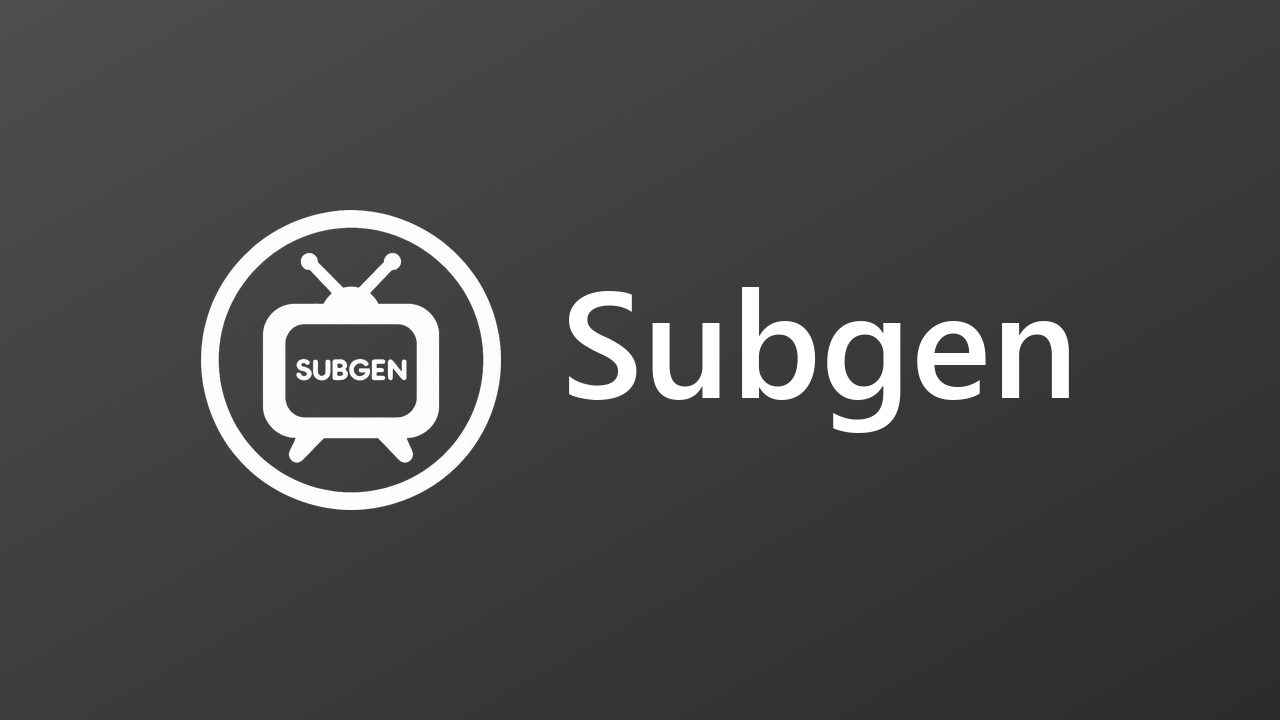
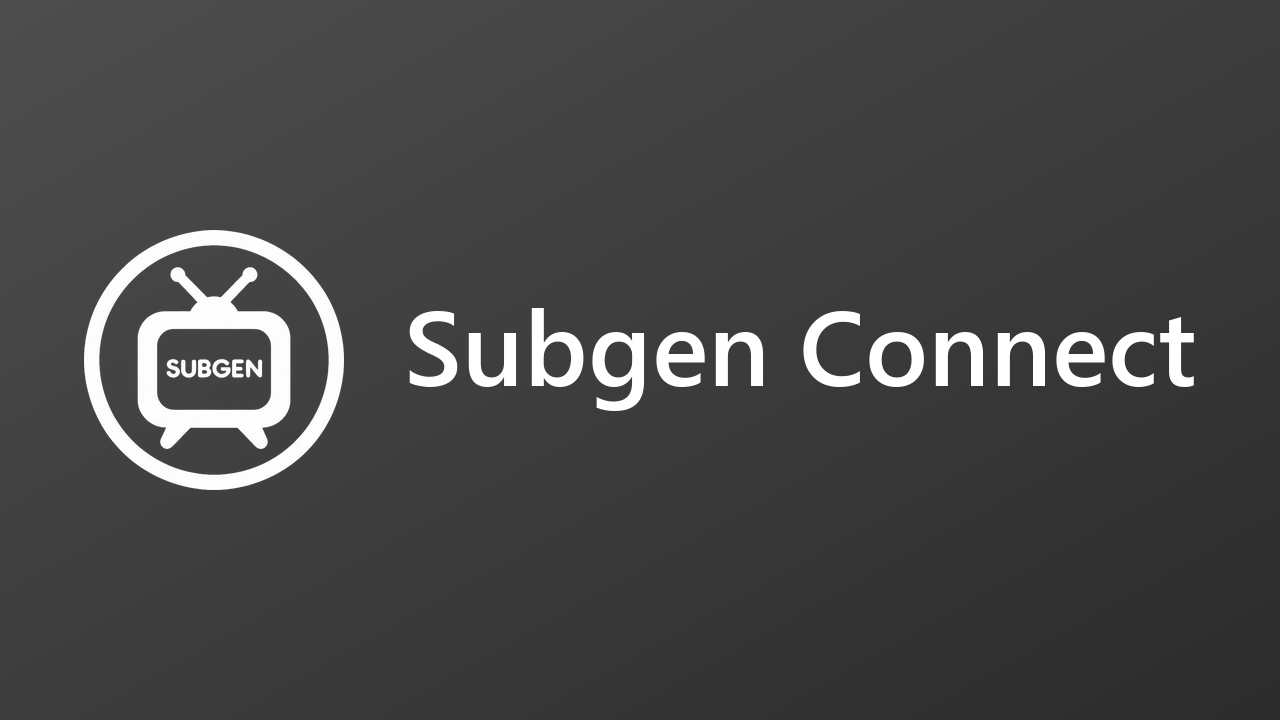
Rename to Subgen Connect (jellyfin-plugin-subgen-connect)
The old name sounded like Subgen is bundled. The plugin only connects
Jellyfin to a Subgen server that the user runs. Renames the plugin and
subtitle provider in Jellyfin, the banner, catalog name and URLs, the
release zip name and the README. Plugin GUID stays the same, so existing
installs update in place.

Changed region(s): [[0.0625, 0.275, 0.9375, 0.7333]]

diff --git a/Jellyfin.Plugin.Subgen/Configuration/configPage.html b/Jellyfin.Plugin.Subgen/Configuration/configPage.html
@@ -2,7 +2,7 @@
 <html lang="en">
 <head>
     <meta charset="utf-8">
-    <title>Subgen</title>
+    <title>Subgen Connect</title>
 </head>
 <body>
 <div id="SubgenConfigPage" data-role="page" class="page type-interior pluginConfigurationPage" data-require="emby-input,emby-button">

diff --git a/scripts/make_banner.py b/scripts/make_banner.py
@@ -1,8 +1,12 @@
-"""Make a Jellyfin catalog banner from the Subgen icon: white icon + name on dark grey."""
+"""Make a Jellyfin catalog banner from the Subgen icon: white icon + name on dark grey.
+
+Usage: python make_banner.py <subgen icon.png> <out.png> <font.ttf> ["Subgen Connect"]
+"""
 import sys
 from PIL import Image, ImageDraw, ImageFont, ImageOps
 
 src, out, font_path = sys.argv[1], sys.argv[2], sys.argv[3]
+text = sys.argv[4] if len(sys.argv) > 4 else "Subgen Connect"
 W, H = 1280, 720
 
 # Dark grey diagonal gradient, like the Open Subtitles tile
@@ -24,13 +28,17 @@ icon = icon.crop(ImageOps.invert(icon).getbbox())
 alpha = ImageOps.invert(icon).point(lambda a: 0 if a < 40 else min(255, int(a * 1.15)))
 white = Image.new("RGBA", icon.size, (255, 255, 255, 0))
 white.putalpha(alpha)
-size = 300
+size = 260
 white = white.resize((size, size), Image.LANCZOS)
 
-font = ImageFont.truetype(font_path, 150)
-text = "Subgen"
 d = ImageDraw.Draw(bg)
-tb = d.textbbox((0, 0), text, font=font)
+fs = 150
+while True:
+    font = ImageFont.truetype(font_path, fs)
+    tb = d.textbbox((0, 0), text, font=font)
+    if tb[2] - tb[0] <= W - size - 60 - 160 or fs <= 40:
+        break
+    fs -= 4
 tw, th = tb[2] - tb[0], tb[3] - tb[1]
 gap = 60
 total = size + gap + tw

diff --git a/Jellyfin.Plugin.Subgen/Plugin.cs b/Jellyfin.Plugin.Subgen/Plugin.cs
@@ -19,11 +19,11 @@ public class Plugin : BasePlugin<PluginConfiguration>, IHasWebPages
 
     public static Plugin? Instance { get; private set; }
 
-    public override string Name => "Subgen";
+    public override string Name => "Subgen Connect";
 
     public override Guid Id => Guid.Parse("5b9f3c1e-7a2d-4e8b-9c41-2f6d8a1b3e70");
 
-    public override string Description => "Generate subtitles on demand with a Subgen (Whisper) server.";
+    public override string Description => "Connects Jellyfin to your own Subgen server to generate subtitles on demand.";
 
     public IEnumerable<PluginPageInfo> GetPages()
     {

diff --git a/Jellyfin.Plugin.Subgen/SubgenSubtitleProvider.cs b/Jellyfin.Plugin.Subgen/SubgenSubtitleProvider.cs
@@ -24,7 +24,7 @@ public class SubgenSubtitleProvider : ISubtitleProvider
         _mediaEncoder = mediaEncoder;
     }
 
-    public string Name => "Subgen";
+    public string Name => "Subgen Connect";
 
     public IEnumerable<VideoContentType> SupportedMediaTypes => new[] { VideoContentType.Episode, VideoContentType.Movie };
 

diff --git a/README.md b/README.md
@@ -1,11 +1,11 @@
 <p align="center">
-  <img src="assets/banner.png" alt="Subgen for Jellyfin" width="560">
+  <img src="assets/banner.png" alt="Subgen Connect for Jellyfin" width="560">
 </p>
 
 <p align="center">
-  <b>Make good subtitles for any episode or movie in Jellyfin, with one click.</b><br>
-  A Jellyfin plugin that sends your media to a <a href="https://github.com/McCloudS/subgen">Subgen</a> server,
-  which writes the subtitle with Whisper.
+  <b>Subgen Connect: make good subtitles for any episode or movie in Jellyfin, with one click.</b><br>
+  A small Jellyfin plugin that connects Jellyfin to <b>your own</b> <a href="https://github.com/McCloudS/subgen">Subgen</a> server,
+  which writes the subtitle with Whisper. Subgen is not included.
 </p>
 
 <p align="center">
@@ -24,13 +24,13 @@
 **Repository URL:**
 
 ```
-https://raw.githubusercontent.com/JRDevo/jellyfin-plugin-subgen/main/manifest.json
+https://raw.githubusercontent.com/JRDevo/jellyfin-plugin-subgen-connect/main/manifest.json
 ```
 
 1. In Jellyfin, go to **Dashboard → Plugins**.
 2. Click **Manage repositories**, then **+** (New repository).
-3. **Repository name:** `Subgen` — **Repository URL:** the URL above. Click **Save**.
-4. Back in **Plugins**, open the **Subtitles** category (or **Available**), click **Subgen**, then **Install**.
+3. **Repository name:** `Subgen Connect` — **Repository URL:** the URL above. Click **Save**.
+4. Back in **Plugins**, open the **Subtitles** category (or **Available**), click **Subgen Connect**, then **Install**.
 5. **Restart Jellyfin** (Dashboard → Restart).
 6. Press **Ctrl + F5** in the browser once.
 
@@ -64,7 +64,7 @@ file and writes a subtitle that matches it. This plugin puts that inside Jellyfi
 
 | Plugin page | Plugin settings |
 |---|---|
-| <img src="assets/screenshots/plugin-page.png" alt="Subgen plugin page in Jellyfin" width="480"> | <img src="assets/screenshots/settings.png" alt="Subgen URL and timeout settings" width="480"> |
+| <img src="assets/screenshots/plugin-page.png" alt="Subgen Connect plugin page in Jellyfin" width="480"> | <img src="assets/screenshots/settings.png" alt="Subgen URL and timeout settings" width="480"> |
 
 ---
 
@@ -103,11 +103,11 @@ mount, mount it with `uid=99,gid=100,file_mode=0664,dir_mode=0775`, or Subgen ca
 ### 1. Install the plugin
 
 Add the repository and install, as in [Install](#install-add-this-repository-to-jellyfin) above
-(**Dashboard → Plugins → Manage repositories → +**, then install **Subgen** and restart).
+(**Dashboard → Plugins → Manage repositories → +**, then install **Subgen Connect** and restart).
 
 ### 2. Point the plugin at Subgen
 
-**Dashboard → Plugins → Subgen → Settings**
+**Dashboard → Plugins → Subgen Connect → Settings**
 
 | Setting | Example | Notes |
 |---|---|---|
@@ -118,7 +118,7 @@ Add the repository and install, as in [Install](#install-add-this-repository-to-
 
 **Dashboard → Libraries → (your TV or Movies library) → Manage library**
 
-- **Subtitle downloaders:** tick **Subgen**.
+- **Subtitle downloaders:** tick **Subgen Connect**.
 - **Download languages:** leave **empty**, unless you really want Jellyfin's nightly
   "Download missing subtitles" task to send your **whole library** to Subgen.
 - **Save subtitles into media folders:** tick it.
@@ -151,7 +151,7 @@ After installing or updating, press **Ctrl + F5** in the browser once so the web
 | No CC button | Press **Ctrl + F5**. Check you are an administrator. Native apps do not show it. |
 | "Subgen: request failed" | Check the **Subgen URL** in the plugin settings, and that Jellyfin can reach Subgen. |
 | Button says "sent", but no subtitle appears | Look at Subgen's log. Usually the paths differ between Jellyfin and Subgen, or Subgen cannot write to the folder. For Subgen's own errors, see the [Subgen project](https://github.com/McCloudS/subgen). |
-| Subgen not listed under Subtitle downloaders | Restart Jellyfin after installing. Check **Dashboard → Plugins** shows Subgen as Active. |
+| Subgen Connect not listed under Subtitle downloaders | Restart Jellyfin after installing. Check **Dashboard → Plugins** shows Subgen Connect as Active. |
 | Plugin shows "Not supported" after a Jellyfin update | A new plugin build for that Jellyfin version is needed (see below). |
 
 ---
@@ -171,7 +171,7 @@ docker run --rm -v "$PWD":/src -w /src mcr.microsoft.com/dotnet/sdk:10.0 \
   dotnet publish Jellyfin.Plugin.Subgen/Jellyfin.Plugin.Subgen.csproj -c Release -o out
 ```
 
-Copy `out/Jellyfin.Plugin.Subgen.dll` into a folder `Subgen` inside Jellyfin's `plugins`
+Copy `out/Jellyfin.Plugin.Subgen.dll` into a folder `SubgenConnect` inside Jellyfin's `plugins`
 folder and restart Jellyfin.
 
 **New Jellyfin version:** change the `Jellyfin.Controller` and `Jellyfin.Model` versions in
